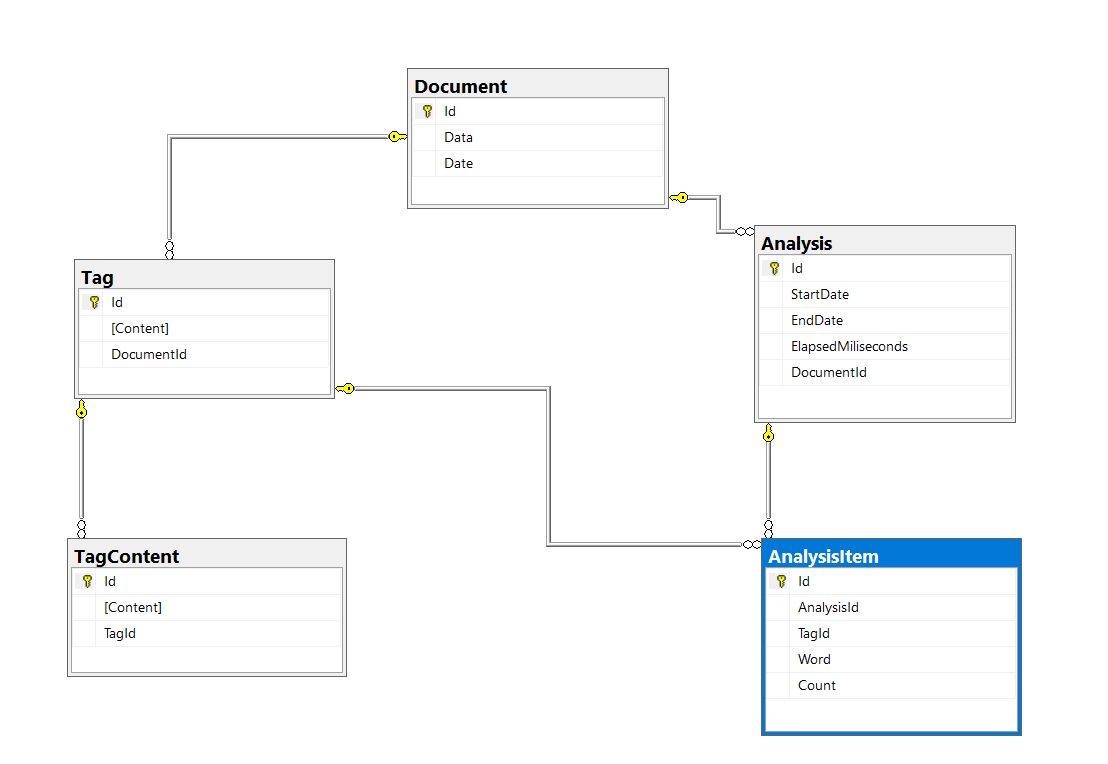
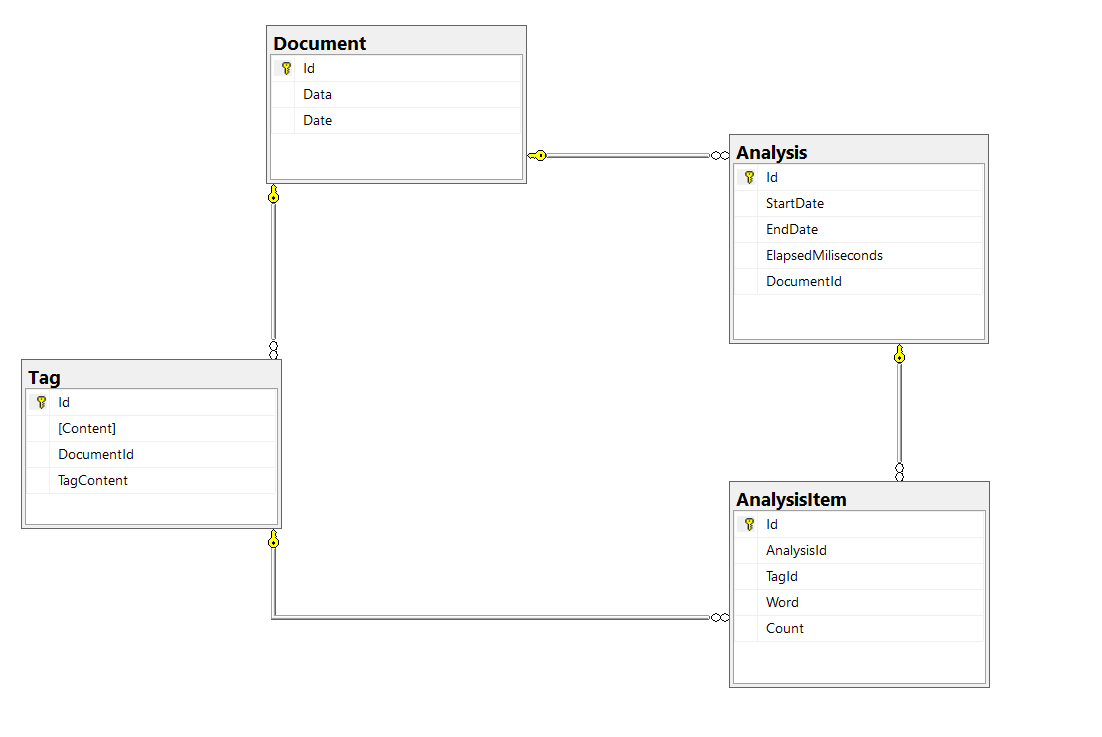
Readme Changed.

diff --git a/README.md b/README.md
@@ -10,8 +10,7 @@ The solution has two applications.
 ## UML
 ![UML](https://github.com/mehmetyagci/CongreeLang/blob/master/screehshots/UML_Diagram.png)
  - Document: It stores XML file information to be analyzed.(XMLDocument data, date )
- - Tag: It stores the information of the elements to be extracted from the document.(p;li e.g.)
- - TagContent: It stores Tag related contents.
+ - Tag: It stores the information of the elements to be extracted from the document and the contents of tag.(p, how comprehensible individual...  e.g.)
 
  - Analysis: It stores document analysis information. (StartDate, EndDate, ElapsedMiliseconds e.g.)
  - AnalysisItem: It stores the repeating vocabulary and the number of occurrences associated with the Analysis, Document and Tag.
